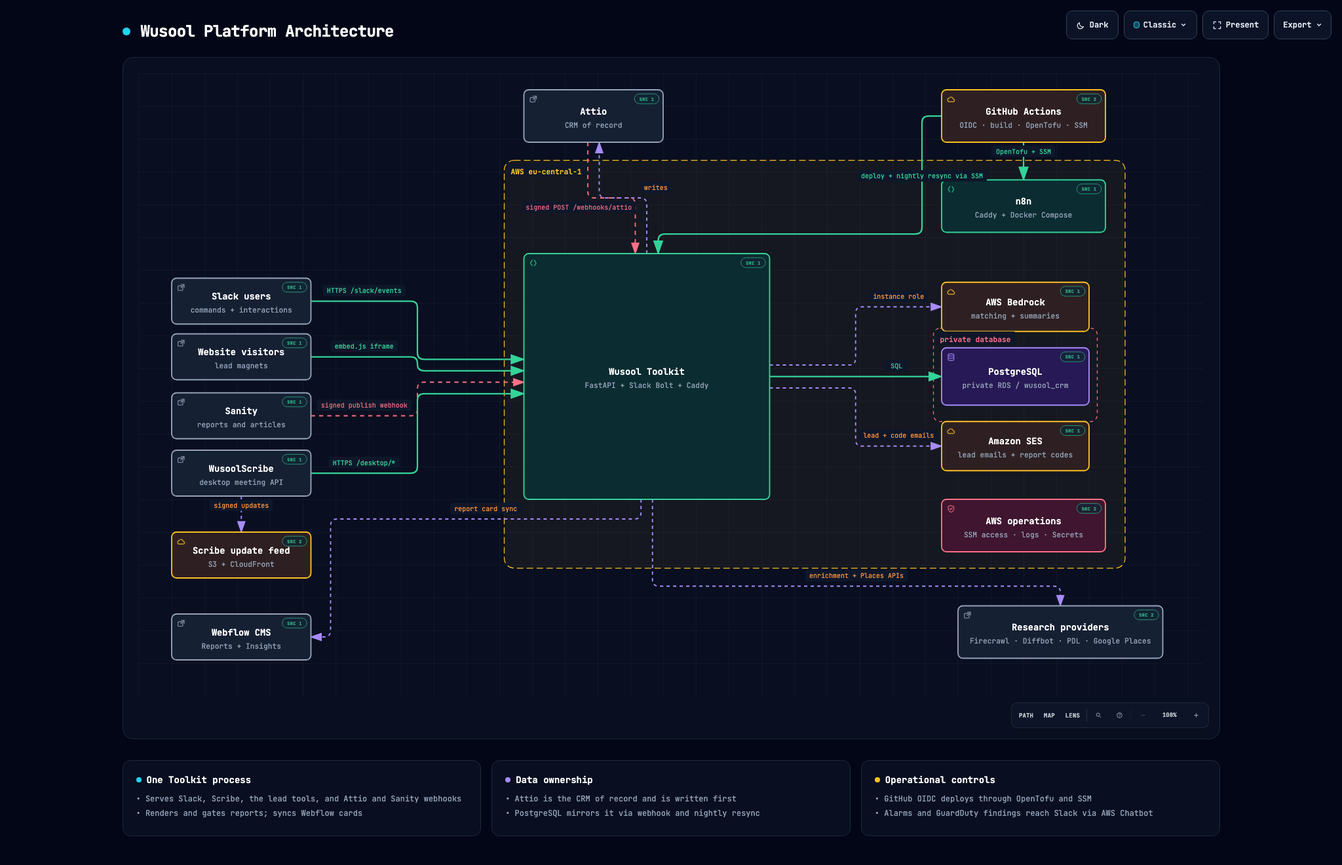
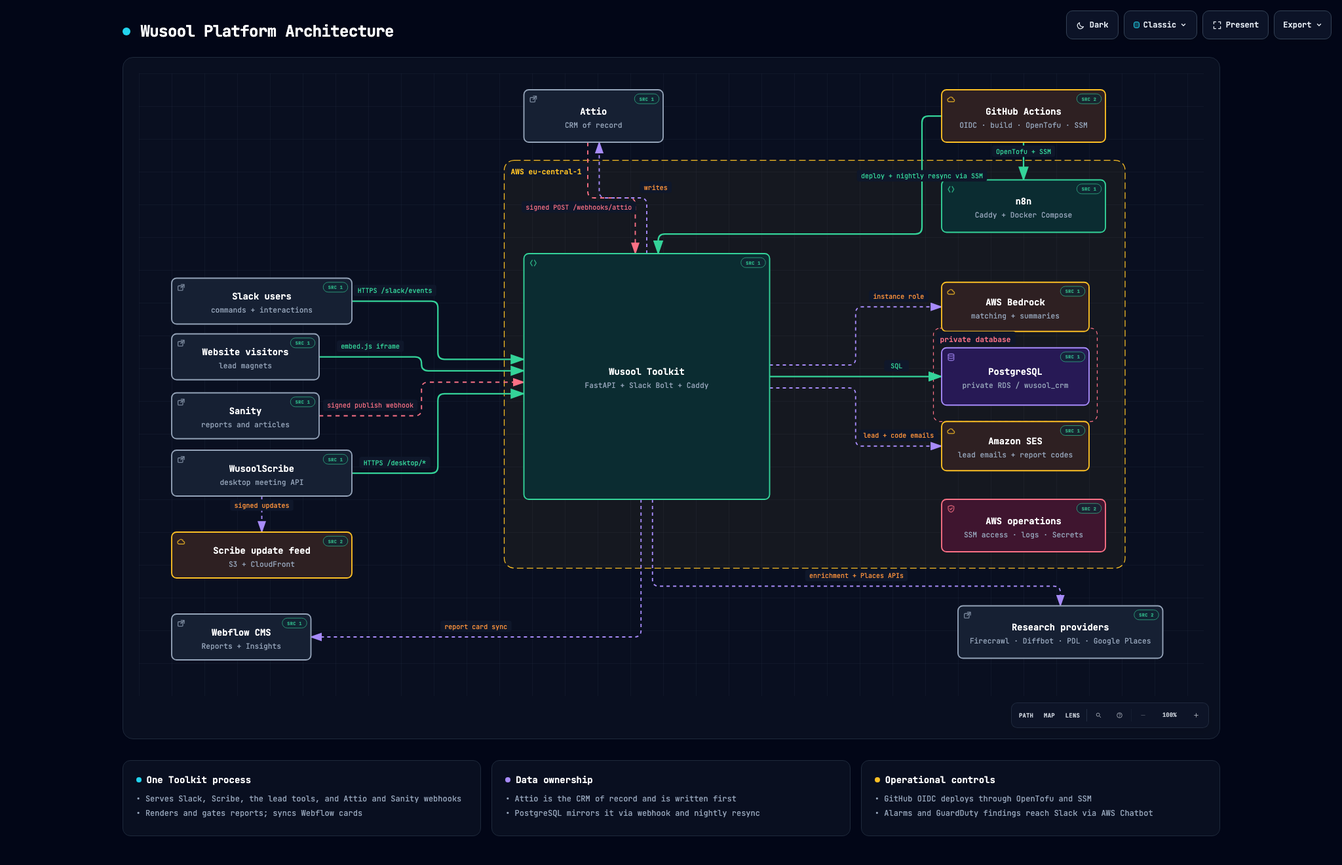
docs(api): stagger client edges into Toolkit in architecture

diff --git a/docs/internal/architecture/wusool-platform.html b/docs/internal/architecture/wusool-platform.html
@@ -5161,12 +5161,12 @@ OTHER DEALINGS IN THE FONT SOFTWARE.
         <rect data-graph-role="structural-frame" data-composition-frame-kind="security-group" data-composition-frame-id="1" data-composition-frame-label="private database" x="970" y="311" width="200" height="114" rx="8" class="c-security-group" stroke-width="1"/>
 
         <!-- Connection paths (before components for correct z-order) -->
-        <path data-edge-from="slack" data-edge-to="toolkit" data-edge-label="HTTPS /slack/events" data-edge-key="0" data-composition-points="210,278;340,278;340,349;470,349" d="M 210 278 L 332 278 Q 340 278 340 286 L 340 341 Q 340 349 348 349 L 470 349" class="a-emphasis" stroke-width="1.8" marker-end="url(#arrowhead-emphasis)"/>
-        <path data-edge-from="website" data-edge-to="toolkit" data-edge-label="embed.js iframe" data-edge-key="1" data-composition-points="210,346;340,346;340,363;470,363" d="M 210 346 L 332 346 Q 340 346 340 354 L 340 355 Q 340 363 348 363 L 470 363" class="a-emphasis" stroke-width="1.8" marker-end="url(#arrowhead-emphasis)"/>
-        <path data-edge-from="sanity" data-edge-to="toolkit" data-edge-label="signed publish webhook" data-edge-key="2" data-composition-points="210,418;340,418;340,377;470,377" d="M 210 418 L 332 418 Q 340 418 340 410 L 340 385 Q 340 377 348 377 L 470 377" class="a-security" stroke-width="1.5" marker-end="url(#arrowhead-security)"/>
-        <path data-edge-from="scribe" data-edge-to="toolkit" data-edge-label="HTTPS /desktop/*" data-edge-key="3" data-composition-points="210,488;340,488;340,391;470,391" d="M 210 488 L 332 488 Q 340 488 340 480 L 340 399 Q 340 391 348 391 L 470 391" class="a-emphasis" stroke-width="1.8" marker-end="url(#arrowhead-emphasis)"/>
-        <path data-edge-from="scribe" data-edge-to="scribe_updates" data-edge-label="signed updates" data-edge-key="4" data-composition-points="125,516;125,560" d="M 125 516 L 125 560" class="a-dashed" stroke-width="1.5" marker-end="url(#arrowhead-dashed)"/>
-        <path data-edge-from="toolkit" data-edge-to="webflow" data-edge-label="report card sync" data-edge-key="5" data-composition-points="613,520;613,544;234,544;234,688;210,688" d="M 613 520 L 613 536 Q 613 544 605 544 L 242 544 Q 234 544 234 552 L 234 680 Q 234 688 226 688 L 210 688" class="a-dashed" stroke-width="1.5" marker-end="url(#arrowhead-dashed)"/>
+        <path data-edge-from="slack" data-edge-to="toolkit" data-edge-label="HTTPS /slack/events" data-edge-key="0" data-composition-points="260,278;365,278;365,349;470,349" d="M 260 278 L 357 278 Q 365 278 365 286 L 365 341 Q 365 349 373 349 L 470 349" class="a-emphasis" stroke-width="1.8" marker-end="url(#arrowhead-emphasis)"/>
+        <path data-edge-from="website" data-edge-to="toolkit" data-edge-label="embed.js iframe" data-edge-key="1" data-composition-points="220,346;345,346;345,363;470,363" d="M 220 346 L 337 346 Q 345 346 345 354 L 345 355 Q 345 363 353 363 L 470 363" class="a-emphasis" stroke-width="1.8" marker-end="url(#arrowhead-emphasis)"/>
+        <path data-edge-from="sanity" data-edge-to="toolkit" data-edge-label="signed publish webhook" data-edge-key="2" data-composition-points="220,418;345,418;345,377;470,377" d="M 220 418 L 337 418 Q 345 418 345 410 L 345 385 Q 345 377 353 377 L 470 377" class="a-security" stroke-width="1.5" marker-end="url(#arrowhead-security)"/>
+        <path data-edge-from="scribe" data-edge-to="toolkit" data-edge-label="HTTPS /desktop/*" data-edge-key="3" data-composition-points="260,488;365,488;365,391;470,391" d="M 260 488 L 357 488 Q 365 488 365 480 L 365 399 Q 365 391 373 391 L 470 391" class="a-emphasis" stroke-width="1.8" marker-end="url(#arrowhead-emphasis)"/>
+        <path data-edge-from="scribe" data-edge-to="scribe_updates" data-edge-label="signed updates" data-edge-key="4" data-composition-points="150,516;150,560" d="M 150 516 L 150 560" class="a-dashed" stroke-width="1.5" marker-end="url(#arrowhead-dashed)"/>
+        <path data-edge-from="toolkit" data-edge-to="webflow" data-edge-label="report card sync" data-edge-key="5" data-composition-points="613,520;613,688;210,688" d="M 613 520 L 613 680 Q 613 688 605 688 L 210 688" class="a-dashed" stroke-width="1.5" marker-end="url(#arrowhead-dashed)"/>
         <path data-edge-from="attio" data-edge-to="toolkit" data-edge-label="signed POST /webhooks/attio" data-edge-key="6" data-composition-points="548,84;548,152;606,152;606,220" d="M 548 84 L 548 144 Q 548 152 556 152 L 598 152 Q 606 152 606 160 L 606 220" class="a-security" stroke-width="1.5" marker-end="url(#arrowhead-security)"/>
         <path data-edge-from="toolkit" data-edge-to="attio" data-edge-label="writes" data-edge-key="7" data-composition-points="620,220;620,152;562,152;562,84" d="M 620 220 L 620 160 Q 620 152 612 152 L 570 152 Q 562 152 562 144 L 562 84" class="a-dashed" stroke-width="1.5" marker-end="url(#arrowhead-dashed)"/>
         <path data-edge-from="github" data-edge-to="toolkit" data-edge-label="deploy + nightly resync via SSM" data-edge-key="8" data-composition-points="980,52;956,52;956,196;634,196;634,220" d="M 980 52 L 964 52 Q 956 52 956 60 L 956 188 Q 956 196 948 196 L 642 196 Q 634 196 634 204 L 634 220" class="a-emphasis" stroke-width="1.8" marker-end="url(#arrowhead-emphasis)"/>
@@ -5179,38 +5179,38 @@ OTHER DEALINGS IN THE FONT SOFTWARE.
         <!-- Components -->
         <g id="node-slack" data-node-id="slack" data-node-label="Slack users" tabindex="0" role="button" aria-label="Focus Slack users, commands + interactions, Architecture component" aria-pressed="false" data-node-kind="external" data-node-sublabel="commands + interactions" data-node-context="Architecture component">
           <title>Slack users · commands + interactions · Architecture component</title>
-          <rect x="40" y="250" width="170" height="56" rx="6" class="c-mask"/>
-          <rect x="40" y="250" width="170" height="56" rx="6" class="c-external" stroke-width="1.5"/>
+          <rect x="40" y="250" width="220" height="56" rx="6" class="c-mask"/>
+          <rect x="40" y="250" width="220" height="56" rx="6" class="c-external" stroke-width="1.5"/>
           <g aria-hidden="true" data-semantic-sigil="external" class="semantic-sigil s-external" transform="translate(46 256) scale(0.6875)">
             <rect x="2.5" y="5" width="8.5" height="8" rx="1.5"/>
             <path d="M8 2.5h5.5V8M13.5 2.5 7.5 8.5"/>
           </g>
-          <text data-node-label="" data-detail-anchor="" x="125" y="276" class="t-primary" font-size="11" font-weight="600" text-anchor="middle">Slack users</text>
-        <text data-detail="context" x="125" y="292" class="t-muted" font-size="9" text-anchor="middle">commands + interactions</text>
+          <text data-node-label="" data-detail-anchor="" x="150" y="276" class="t-primary" font-size="11" font-weight="600" text-anchor="middle">Slack users</text>
+        <text data-detail="context" x="150" y="292" class="t-muted" font-size="9" text-anchor="middle">commands + interactions</text>
         </g>
 
         <g id="node-website" data-node-id="website" data-node-label="Website visitors" tabindex="0" role="button" aria-label="Focus Website visitors, lead magnets, Architecture component" aria-pressed="false" data-node-kind="external" data-node-sublabel="lead magnets" data-node-context="Architecture component">
           <title>Website visitors · lead magnets · Architecture component</title>
-          <rect x="40" y="318" width="170" height="56" rx="6" class="c-mask"/>
-          <rect x="40" y="318" width="170" height="56" rx="6" class="c-external" stroke-width="1.5"/>
+          <rect x="40" y="318" width="180" height="56" rx="6" class="c-mask"/>
+          <rect x="40" y="318" width="180" height="56" rx="6" class="c-external" stroke-width="1.5"/>
           <g aria-hidden="true" data-semantic-sigil="external" class="semantic-sigil s-external" transform="translate(46 324) scale(0.6875)">
             <rect x="2.5" y="5" width="8.5" height="8" rx="1.5"/>
             <path d="M8 2.5h5.5V8M13.5 2.5 7.5 8.5"/>
           </g>
-          <text data-node-label="" data-detail-anchor="" x="125" y="344" class="t-primary" font-size="11" font-weight="600" text-anchor="middle">Website visitors</text>
-        <text data-detail="context" x="125" y="360" class="t-muted" font-size="9" text-anchor="middle">lead magnets</text>
+          <text data-node-label="" data-detail-anchor="" x="130" y="344" class="t-primary" font-size="11" font-weight="600" text-anchor="middle">Website visitors</text>
+        <text data-detail="context" x="130" y="360" class="t-muted" font-size="9" text-anchor="middle">lead magnets</text>
         </g>
 
         <g id="node-scribe" data-node-id="scribe" data-node-label="WusoolScribe" tabindex="0" role="button" aria-label="Focus WusoolScribe, desktop meeting API, Architecture component" aria-pressed="false" data-node-kind="external" data-node-sublabel="desktop meeting API" data-node-context="Architecture component">
           <title>WusoolScribe · desktop meeting API · Architecture component</title>
-          <rect x="40" y="460" width="170" height="56" rx="6" class="c-mask"/>
-          <rect x="40" y="460" width="170" height="56" rx="6" class="c-external" stroke-width="1.5"/>
+          <rect x="40" y="460" width="220" height="56" rx="6" class="c-mask"/>
+          <rect x="40" y="460" width="220" height="56" rx="6" class="c-external" stroke-width="1.5"/>
           <g aria-hidden="true" data-semantic-sigil="external" class="semantic-sigil s-external" transform="translate(46 466) scale(0.6875)">
             <rect x="2.5" y="5" width="8.5" height="8" rx="1.5"/>
             <path d="M8 2.5h5.5V8M13.5 2.5 7.5 8.5"/>
           </g>
-          <text data-node-label="" data-detail-anchor="" x="125" y="486" class="t-primary" font-size="11" font-weight="600" text-anchor="middle">WusoolScribe</text>
-        <text data-detail="context" x="125" y="502" class="t-muted" font-size="9" text-anchor="middle">desktop meeting API</text>
+          <text data-node-label="" data-detail-anchor="" x="150" y="486" class="t-primary" font-size="11" font-weight="600" text-anchor="middle">WusoolScribe</text>
+        <text data-detail="context" x="150" y="502" class="t-muted" font-size="9" text-anchor="middle">desktop meeting API</text>
         </g>
 
         <g id="node-attio" data-node-id="attio" data-node-label="Attio" tabindex="0" role="button" aria-label="Focus Attio, CRM of record, Architecture component" aria-pressed="false" data-node-kind="external" data-node-sublabel="CRM of record" data-node-context="Architecture component">
@@ -5310,14 +5310,14 @@ OTHER DEALINGS IN THE FONT SOFTWARE.
 
         <g id="node-sanity" data-node-id="sanity" data-node-label="Sanity" tabindex="0" role="button" aria-label="Focus Sanity, reports and articles, Architecture component" aria-pressed="false" data-node-kind="external" data-node-sublabel="reports and articles" data-node-context="Architecture component">
           <title>Sanity · reports and articles · Architecture component</title>
-          <rect x="40" y="390" width="170" height="56" rx="6" class="c-mask"/>
-          <rect x="40" y="390" width="170" height="56" rx="6" class="c-external" stroke-width="1.5"/>
+          <rect x="40" y="390" width="180" height="56" rx="6" class="c-mask"/>
+          <rect x="40" y="390" width="180" height="56" rx="6" class="c-external" stroke-width="1.5"/>
           <g aria-hidden="true" data-semantic-sigil="external" class="semantic-sigil s-external" transform="translate(46 396) scale(0.6875)">
             <rect x="2.5" y="5" width="8.5" height="8" rx="1.5"/>
             <path d="M8 2.5h5.5V8M13.5 2.5 7.5 8.5"/>
           </g>
-          <text data-node-label="" data-detail-anchor="" x="125" y="416" class="t-primary" font-size="11" font-weight="600" text-anchor="middle">Sanity</text>
-        <text data-detail="context" x="125" y="432" class="t-muted" font-size="9" text-anchor="middle">reports and articles</text>
+          <text data-node-label="" data-detail-anchor="" x="130" y="416" class="t-primary" font-size="11" font-weight="600" text-anchor="middle">Sanity</text>
+        <text data-detail="context" x="130" y="432" class="t-muted" font-size="9" text-anchor="middle">reports and articles</text>
         </g>
 
         <g id="node-webflow" data-node-id="webflow" data-node-label="Webflow CMS" tabindex="0" role="button" aria-label="Focus Webflow CMS, Reports + Insights, Architecture component" aria-pressed="false" data-node-kind="external" data-node-sublabel="Reports + Insights" data-node-context="Architecture component">
@@ -5345,39 +5345,39 @@ OTHER DEALINGS IN THE FONT SOFTWARE.
 
         <g id="node-scribe_updates" data-node-id="scribe_updates" data-node-label="Scribe update feed" tabindex="0" role="button" aria-label="Focus Scribe update feed, S3 + CloudFront, Architecture component" aria-pressed="false" data-node-kind="cloud" data-node-sublabel="S3 + CloudFront" data-node-context="Architecture component">
           <title>Scribe update feed · S3 + CloudFront · Architecture component</title>
-          <rect x="40" y="560" width="170" height="56" rx="6" class="c-mask"/>
-          <rect x="40" y="560" width="170" height="56" rx="6" class="c-cloud" stroke-width="1.5"/>
+          <rect x="40" y="560" width="220" height="56" rx="6" class="c-mask"/>
+          <rect x="40" y="560" width="220" height="56" rx="6" class="c-cloud" stroke-width="1.5"/>
           <g aria-hidden="true" data-semantic-sigil="cloud" class="semantic-sigil s-cloud" transform="translate(46 566) scale(0.6875)">
             <path d="M4.3 12.5h7.3a2.4 2.4 0 0 0 .2-4.8 4 4 0 0 0-7.5-1.3A3.1 3.1 0 0 0 4.3 12.5Z"/>
           </g>
-          <text data-node-label="" data-detail-anchor="" x="125" y="586" class="t-primary" font-size="11" font-weight="600" text-anchor="middle">Scribe update feed</text>
-        <text data-detail="context" x="125" y="602" class="t-muted" font-size="9" text-anchor="middle">S3 + CloudFront</text>
+          <text data-node-label="" data-detail-anchor="" x="150" y="586" class="t-primary" font-size="11" font-weight="600" text-anchor="middle">Scribe update feed</text>
+        <text data-detail="context" x="150" y="602" class="t-muted" font-size="9" text-anchor="middle">S3 + CloudFront</text>
         </g>
 
         <!-- Connection labels -->
         <g data-detail="context" data-edge-from="slack" data-edge-to="toolkit" data-edge-label="HTTPS /slack/events" data-edge-key="0">
-          <rect x="224.4" y="258" width="101.2" height="14" rx="3" class="c-mask"/>
-          <text x="275" y="268" class="t-backend" font-size="8" text-anchor="middle">HTTPS /slack/events</text>
+          <rect x="261.9" y="258" width="101.2" height="14" rx="3" class="c-mask"/>
+          <text x="312.5" y="268" class="t-backend" font-size="8" text-anchor="middle">HTTPS /slack/events</text>
         </g>
         <g data-detail="context" data-edge-from="website" data-edge-to="toolkit" data-edge-label="embed.js iframe" data-edge-key="1">
-          <rect x="234" y="326" width="82" height="14" rx="3" class="c-mask"/>
-          <text x="275" y="336" class="t-backend" font-size="8" text-anchor="middle">embed.js iframe</text>
+          <rect x="241.5" y="326" width="82" height="14" rx="3" class="c-mask"/>
+          <text x="282.5" y="336" class="t-backend" font-size="8" text-anchor="middle">embed.js iframe</text>
         </g>
         <g data-detail="context" data-edge-from="sanity" data-edge-to="toolkit" data-edge-label="signed publish webhook" data-edge-key="2">
-          <rect x="217.2" y="398" width="115.6" height="14" rx="3" class="c-mask"/>
-          <text x="275" y="408" class="t-security" font-size="8" text-anchor="middle">signed publish webhook</text>
+          <rect x="224.7" y="398" width="115.6" height="14" rx="3" class="c-mask"/>
+          <text x="282.5" y="408" class="t-security" font-size="8" text-anchor="middle">signed publish webhook</text>
         </g>
         <g data-detail="context" data-edge-from="scribe" data-edge-to="toolkit" data-edge-label="HTTPS /desktop/*" data-edge-key="3">
-          <rect x="231.6" y="468" width="86.8" height="14" rx="3" class="c-mask"/>
-          <text x="275" y="478" class="t-backend" font-size="8" text-anchor="middle">HTTPS /desktop/*</text>
+          <rect x="269.1" y="468" width="86.8" height="14" rx="3" class="c-mask"/>
+          <text x="312.5" y="478" class="t-backend" font-size="8" text-anchor="middle">HTTPS /desktop/*</text>
         </g>
         <g data-detail="context" data-edge-from="scribe" data-edge-to="scribe_updates" data-edge-label="signed updates" data-edge-key="4">
-          <rect x="86.4" y="520" width="77.2" height="14" rx="3" class="c-mask"/>
-          <text x="125" y="530" class="t-messagebus" font-size="8" text-anchor="middle">signed updates</text>
+          <rect x="111.4" y="520" width="77.2" height="14" rx="3" class="c-mask"/>
+          <text x="150" y="530" class="t-messagebus" font-size="8" text-anchor="middle">signed updates</text>
         </g>
         <g data-detail="context" data-edge-from="toolkit" data-edge-to="webflow" data-edge-label="report card sync" data-edge-key="5">
-          <rect x="380.1" y="524" width="86.8" height="14" rx="3" class="c-mask"/>
-          <text x="423.5" y="534" class="t-messagebus" font-size="8" text-anchor="middle">report card sync</text>
+          <rect x="368.1" y="668" width="86.8" height="14" rx="3" class="c-mask"/>
+          <text x="411.5" y="678" class="t-messagebus" font-size="8" text-anchor="middle">report card sync</text>
         </g>
         <g data-detail="context" data-edge-from="attio" data-edge-to="toolkit" data-edge-label="signed POST /webhooks/attio" data-edge-key="6">
           <rect x="467.2" y="156" width="139.6" height="14" rx="3" class="c-mask"/>

diff --git a/server/app/modules/lead_magnets/static/architecture/index.html b/server/app/modules/lead_magnets/static/architecture/index.html
@@ -5161,12 +5161,12 @@ OTHER DEALINGS IN THE FONT SOFTWARE.
         <rect data-graph-role="structural-frame" data-composition-frame-kind="security-group" data-composition-frame-id="1" data-composition-frame-label="private database" x="970" y="311" width="200" height="114" rx="8" class="c-security-group" stroke-width="1"/>
 
         <!-- Connection paths (before components for correct z-order) -->
-        <path data-edge-from="slack" data-edge-to="toolkit" data-edge-label="HTTPS /slack/events" data-edge-key="0" data-composition-points="210,278;340,278;340,349;470,349" d="M 210 278 L 332 278 Q 340 278 340 286 L 340 341 Q 340 349 348 349 L 470 349" class="a-emphasis" stroke-width="1.8" marker-end="url(#arrowhead-emphasis)"/>
-        <path data-edge-from="website" data-edge-to="toolkit" data-edge-label="embed.js iframe" data-edge-key="1" data-composition-points="210,346;340,346;340,363;470,363" d="M 210 346 L 332 346 Q 340 346 340 354 L 340 355 Q 340 363 348 363 L 470 363" class="a-emphasis" stroke-width="1.8" marker-end="url(#arrowhead-emphasis)"/>
-        <path data-edge-from="sanity" data-edge-to="toolkit" data-edge-label="signed publish webhook" data-edge-key="2" data-composition-points="210,418;340,418;340,377;470,377" d="M 210 418 L 332 418 Q 340 418 340 410 L 340 385 Q 340 377 348 377 L 470 377" class="a-security" stroke-width="1.5" marker-end="url(#arrowhead-security)"/>
-        <path data-edge-from="scribe" data-edge-to="toolkit" data-edge-label="HTTPS /desktop/*" data-edge-key="3" data-composition-points="210,488;340,488;340,391;470,391" d="M 210 488 L 332 488 Q 340 488 340 480 L 340 399 Q 340 391 348 391 L 470 391" class="a-emphasis" stroke-width="1.8" marker-end="url(#arrowhead-emphasis)"/>
-        <path data-edge-from="scribe" data-edge-to="scribe_updates" data-edge-label="signed updates" data-edge-key="4" data-composition-points="125,516;125,560" d="M 125 516 L 125 560" class="a-dashed" stroke-width="1.5" marker-end="url(#arrowhead-dashed)"/>
-        <path data-edge-from="toolkit" data-edge-to="webflow" data-edge-label="report card sync" data-edge-key="5" data-composition-points="613,520;613,544;234,544;234,688;210,688" d="M 613 520 L 613 536 Q 613 544 605 544 L 242 544 Q 234 544 234 552 L 234 680 Q 234 688 226 688 L 210 688" class="a-dashed" stroke-width="1.5" marker-end="url(#arrowhead-dashed)"/>
+        <path data-edge-from="slack" data-edge-to="toolkit" data-edge-label="HTTPS /slack/events" data-edge-key="0" data-composition-points="260,278;365,278;365,349;470,349" d="M 260 278 L 357 278 Q 365 278 365 286 L 365 341 Q 365 349 373 349 L 470 349" class="a-emphasis" stroke-width="1.8" marker-end="url(#arrowhead-emphasis)"/>
+        <path data-edge-from="website" data-edge-to="toolkit" data-edge-label="embed.js iframe" data-edge-key="1" data-composition-points="220,346;345,346;345,363;470,363" d="M 220 346 L 337 346 Q 345 346 345 354 L 345 355 Q 345 363 353 363 L 470 363" class="a-emphasis" stroke-width="1.8" marker-end="url(#arrowhead-emphasis)"/>
+        <path data-edge-from="sanity" data-edge-to="toolkit" data-edge-label="signed publish webhook" data-edge-key="2" data-composition-points="220,418;345,418;345,377;470,377" d="M 220 418 L 337 418 Q 345 418 345 410 L 345 385 Q 345 377 353 377 L 470 377" class="a-security" stroke-width="1.5" marker-end="url(#arrowhead-security)"/>
+        <path data-edge-from="scribe" data-edge-to="toolkit" data-edge-label="HTTPS /desktop/*" data-edge-key="3" data-composition-points="260,488;365,488;365,391;470,391" d="M 260 488 L 357 488 Q 365 488 365 480 L 365 399 Q 365 391 373 391 L 470 391" class="a-emphasis" stroke-width="1.8" marker-end="url(#arrowhead-emphasis)"/>
+        <path data-edge-from="scribe" data-edge-to="scribe_updates" data-edge-label="signed updates" data-edge-key="4" data-composition-points="150,516;150,560" d="M 150 516 L 150 560" class="a-dashed" stroke-width="1.5" marker-end="url(#arrowhead-dashed)"/>
+        <path data-edge-from="toolkit" data-edge-to="webflow" data-edge-label="report card sync" data-edge-key="5" data-composition-points="613,520;613,688;210,688" d="M 613 520 L 613 680 Q 613 688 605 688 L 210 688" class="a-dashed" stroke-width="1.5" marker-end="url(#arrowhead-dashed)"/>
         <path data-edge-from="attio" data-edge-to="toolkit" data-edge-label="signed POST /webhooks/attio" data-edge-key="6" data-composition-points="548,84;548,152;606,152;606,220" d="M 548 84 L 548 144 Q 548 152 556 152 L 598 152 Q 606 152 606 160 L 606 220" class="a-security" stroke-width="1.5" marker-end="url(#arrowhead-security)"/>
         <path data-edge-from="toolkit" data-edge-to="attio" data-edge-label="writes" data-edge-key="7" data-composition-points="620,220;620,152;562,152;562,84" d="M 620 220 L 620 160 Q 620 152 612 152 L 570 152 Q 562 152 562 144 L 562 84" class="a-dashed" stroke-width="1.5" marker-end="url(#arrowhead-dashed)"/>
         <path data-edge-from="github" data-edge-to="toolkit" data-edge-label="deploy + nightly resync via SSM" data-edge-key="8" data-composition-points="980,52;956,52;956,196;634,196;634,220" d="M 980 52 L 964 52 Q 956 52 956 60 L 956 188 Q 956 196 948 196 L 642 196 Q 634 196 634 204 L 634 220" class="a-emphasis" stroke-width="1.8" marker-end="url(#arrowhead-emphasis)"/>
@@ -5179,38 +5179,38 @@ OTHER DEALINGS IN THE FONT SOFTWARE.
         <!-- Components -->
         <g id="node-slack" data-node-id="slack" data-node-label="Slack users" tabindex="0" role="button" aria-label="Focus Slack users, commands + interactions, Architecture component" aria-pressed="false" data-node-kind="external" data-node-sublabel="commands + interactions" data-node-context="Architecture component">
           <title>Slack users · commands + interactions · Architecture component</title>
-          <rect x="40" y="250" width="170" height="56" rx="6" class="c-mask"/>
-          <rect x="40" y="250" width="170" height="56" rx="6" class="c-external" stroke-width="1.5"/>
+          <rect x="40" y="250" width="220" height="56" rx="6" class="c-mask"/>
+          <rect x="40" y="250" width="220" height="56" rx="6" class="c-external" stroke-width="1.5"/>
           <g aria-hidden="true" data-semantic-sigil="external" class="semantic-sigil s-external" transform="translate(46 256) scale(0.6875)">
             <rect x="2.5" y="5" width="8.5" height="8" rx="1.5"/>
             <path d="M8 2.5h5.5V8M13.5 2.5 7.5 8.5"/>
           </g>
-          <text data-node-label="" data-detail-anchor="" x="125" y="276" class="t-primary" font-size="11" font-weight="600" text-anchor="middle">Slack users</text>
-        <text data-detail="context" x="125" y="292" class="t-muted" font-size="9" text-anchor="middle">commands + interactions</text>
+          <text data-node-label="" data-detail-anchor="" x="150" y="276" class="t-primary" font-size="11" font-weight="600" text-anchor="middle">Slack users</text>
+        <text data-detail="context" x="150" y="292" class="t-muted" font-size="9" text-anchor="middle">commands + interactions</text>
         </g>
 
         <g id="node-website" data-node-id="website" data-node-label="Website visitors" tabindex="0" role="button" aria-label="Focus Website visitors, lead magnets, Architecture component" aria-pressed="false" data-node-kind="external" data-node-sublabel="lead magnets" data-node-context="Architecture component">
           <title>Website visitors · lead magnets · Architecture component</title>
-          <rect x="40" y="318" width="170" height="56" rx="6" class="c-mask"/>
-          <rect x="40" y="318" width="170" height="56" rx="6" class="c-external" stroke-width="1.5"/>
+          <rect x="40" y="318" width="180" height="56" rx="6" class="c-mask"/>
+          <rect x="40" y="318" width="180" height="56" rx="6" class="c-external" stroke-width="1.5"/>
           <g aria-hidden="true" data-semantic-sigil="external" class="semantic-sigil s-external" transform="translate(46 324) scale(0.6875)">
             <rect x="2.5" y="5" width="8.5" height="8" rx="1.5"/>
             <path d="M8 2.5h5.5V8M13.5 2.5 7.5 8.5"/>
           </g>
-          <text data-node-label="" data-detail-anchor="" x="125" y="344" class="t-primary" font-size="11" font-weight="600" text-anchor="middle">Website visitors</text>
-        <text data-detail="context" x="125" y="360" class="t-muted" font-size="9" text-anchor="middle">lead magnets</text>
+          <text data-node-label="" data-detail-anchor="" x="130" y="344" class="t-primary" font-size="11" font-weight="600" text-anchor="middle">Website visitors</text>
+        <text data-detail="context" x="130" y="360" class="t-muted" font-size="9" text-anchor="middle">lead magnets</text>
         </g>
 
         <g id="node-scribe" data-node-id="scribe" data-node-label="WusoolScribe" tabindex="0" role="button" aria-label="Focus WusoolScribe, desktop meeting API, Architecture component" aria-pressed="false" data-node-kind="external" data-node-sublabel="desktop meeting API" data-node-context="Architecture component">
           <title>WusoolScribe · desktop meeting API · Architecture component</title>
-          <rect x="40" y="460" width="170" height="56" rx="6" class="c-mask"/>
-          <rect x="40" y="460" width="170" height="56" rx="6" class="c-external" stroke-width="1.5"/>
+          <rect x="40" y="460" width="220" height="56" rx="6" class="c-mask"/>
+          <rect x="40" y="460" width="220" height="56" rx="6" class="c-external" stroke-width="1.5"/>
           <g aria-hidden="true" data-semantic-sigil="external" class="semantic-sigil s-external" transform="translate(46 466) scale(0.6875)">
             <rect x="2.5" y="5" width="8.5" height="8" rx="1.5"/>
             <path d="M8 2.5h5.5V8M13.5 2.5 7.5 8.5"/>
           </g>
-          <text data-node-label="" data-detail-anchor="" x="125" y="486" class="t-primary" font-size="11" font-weight="600" text-anchor="middle">WusoolScribe</text>
-        <text data-detail="context" x="125" y="502" class="t-muted" font-size="9" text-anchor="middle">desktop meeting API</text>
+          <text data-node-label="" data-detail-anchor="" x="150" y="486" class="t-primary" font-size="11" font-weight="600" text-anchor="middle">WusoolScribe</text>
+        <text data-detail="context" x="150" y="502" class="t-muted" font-size="9" text-anchor="middle">desktop meeting API</text>
         </g>
 
         <g id="node-attio" data-node-id="attio" data-node-label="Attio" tabindex="0" role="button" aria-label="Focus Attio, CRM of record, Architecture component" aria-pressed="false" data-node-kind="external" data-node-sublabel="CRM of record" data-node-context="Architecture component">
@@ -5310,14 +5310,14 @@ OTHER DEALINGS IN THE FONT SOFTWARE.
 
         <g id="node-sanity" data-node-id="sanity" data-node-label="Sanity" tabindex="0" role="button" aria-label="Focus Sanity, reports and articles, Architecture component" aria-pressed="false" data-node-kind="external" data-node-sublabel="reports and articles" data-node-context="Architecture component">
           <title>Sanity · reports and articles · Architecture component</title>
-          <rect x="40" y="390" width="170" height="56" rx="6" class="c-mask"/>
-          <rect x="40" y="390" width="170" height="56" rx="6" class="c-external" stroke-width="1.5"/>
+          <rect x="40" y="390" width="180" height="56" rx="6" class="c-mask"/>
+          <rect x="40" y="390" width="180" height="56" rx="6" class="c-external" stroke-width="1.5"/>
           <g aria-hidden="true" data-semantic-sigil="external" class="semantic-sigil s-external" transform="translate(46 396) scale(0.6875)">
             <rect x="2.5" y="5" width="8.5" height="8" rx="1.5"/>
             <path d="M8 2.5h5.5V8M13.5 2.5 7.5 8.5"/>
           </g>
-          <text data-node-label="" data-detail-anchor="" x="125" y="416" class="t-primary" font-size="11" font-weight="600" text-anchor="middle">Sanity</text>
-        <text data-detail="context" x="125" y="432" class="t-muted" font-size="9" text-anchor="middle">reports and articles</text>
+          <text data-node-label="" data-detail-anchor="" x="130" y="416" class="t-primary" font-size="11" font-weight="600" text-anchor="middle">Sanity</text>
+        <text data-detail="context" x="130" y="432" class="t-muted" font-size="9" text-anchor="middle">reports and articles</text>
         </g>
 
         <g id="node-webflow" data-node-id="webflow" data-node-label="Webflow CMS" tabindex="0" role="button" aria-label="Focus Webflow CMS, Reports + Insights, Architecture component" aria-pressed="false" data-node-kind="external" data-node-sublabel="Reports + Insights" data-node-context="Architecture component">
@@ -5345,39 +5345,39 @@ OTHER DEALINGS IN THE FONT SOFTWARE.
 
         <g id="node-scribe_updates" data-node-id="scribe_updates" data-node-label="Scribe update feed" tabindex="0" role="button" aria-label="Focus Scribe update feed, S3 + CloudFront, Architecture component" aria-pressed="false" data-node-kind="cloud" data-node-sublabel="S3 + CloudFront" data-node-context="Architecture component">
           <title>Scribe update feed · S3 + CloudFront · Architecture component</title>
-          <rect x="40" y="560" width="170" height="56" rx="6" class="c-mask"/>
-          <rect x="40" y="560" width="170" height="56" rx="6" class="c-cloud" stroke-width="1.5"/>
+          <rect x="40" y="560" width="220" height="56" rx="6" class="c-mask"/>
+          <rect x="40" y="560" width="220" height="56" rx="6" class="c-cloud" stroke-width="1.5"/>
           <g aria-hidden="true" data-semantic-sigil="cloud" class="semantic-sigil s-cloud" transform="translate(46 566) scale(0.6875)">
             <path d="M4.3 12.5h7.3a2.4 2.4 0 0 0 .2-4.8 4 4 0 0 0-7.5-1.3A3.1 3.1 0 0 0 4.3 12.5Z"/>
           </g>
-          <text data-node-label="" data-detail-anchor="" x="125" y="586" class="t-primary" font-size="11" font-weight="600" text-anchor="middle">Scribe update feed</text>
-        <text data-detail="context" x="125" y="602" class="t-muted" font-size="9" text-anchor="middle">S3 + CloudFront</text>
+          <text data-node-label="" data-detail-anchor="" x="150" y="586" class="t-primary" font-size="11" font-weight="600" text-anchor="middle">Scribe update feed</text>
+        <text data-detail="context" x="150" y="602" class="t-muted" font-size="9" text-anchor="middle">S3 + CloudFront</text>
         </g>
 
         <!-- Connection labels -->
         <g data-detail="context" data-edge-from="slack" data-edge-to="toolkit" data-edge-label="HTTPS /slack/events" data-edge-key="0">
-          <rect x="224.4" y="258" width="101.2" height="14" rx="3" class="c-mask"/>
-          <text x="275" y="268" class="t-backend" font-size="8" text-anchor="middle">HTTPS /slack/events</text>
+          <rect x="261.9" y="258" width="101.2" height="14" rx="3" class="c-mask"/>
+          <text x="312.5" y="268" class="t-backend" font-size="8" text-anchor="middle">HTTPS /slack/events</text>
         </g>
         <g data-detail="context" data-edge-from="website" data-edge-to="toolkit" data-edge-label="embed.js iframe" data-edge-key="1">
-          <rect x="234" y="326" width="82" height="14" rx="3" class="c-mask"/>
-          <text x="275" y="336" class="t-backend" font-size="8" text-anchor="middle">embed.js iframe</text>
+          <rect x="241.5" y="326" width="82" height="14" rx="3" class="c-mask"/>
+          <text x="282.5" y="336" class="t-backend" font-size="8" text-anchor="middle">embed.js iframe</text>
         </g>
         <g data-detail="context" data-edge-from="sanity" data-edge-to="toolkit" data-edge-label="signed publish webhook" data-edge-key="2">
-          <rect x="217.2" y="398" width="115.6" height="14" rx="3" class="c-mask"/>
-          <text x="275" y="408" class="t-security" font-size="8" text-anchor="middle">signed publish webhook</text>
+          <rect x="224.7" y="398" width="115.6" height="14" rx="3" class="c-mask"/>
+          <text x="282.5" y="408" class="t-security" font-size="8" text-anchor="middle">signed publish webhook</text>
         </g>
         <g data-detail="context" data-edge-from="scribe" data-edge-to="toolkit" data-edge-label="HTTPS /desktop/*" data-edge-key="3">
-          <rect x="231.6" y="468" width="86.8" height="14" rx="3" class="c-mask"/>
-          <text x="275" y="478" class="t-backend" font-size="8" text-anchor="middle">HTTPS /desktop/*</text>
+          <rect x="269.1" y="468" width="86.8" height="14" rx="3" class="c-mask"/>
+          <text x="312.5" y="478" class="t-backend" font-size="8" text-anchor="middle">HTTPS /desktop/*</text>
         </g>
         <g data-detail="context" data-edge-from="scribe" data-edge-to="scribe_updates" data-edge-label="signed updates" data-edge-key="4">
-          <rect x="86.4" y="520" width="77.2" height="14" rx="3" class="c-mask"/>
-          <text x="125" y="530" class="t-messagebus" font-size="8" text-anchor="middle">signed updates</text>
+          <rect x="111.4" y="520" width="77.2" height="14" rx="3" class="c-mask"/>
+          <text x="150" y="530" class="t-messagebus" font-size="8" text-anchor="middle">signed updates</text>
         </g>
         <g data-detail="context" data-edge-from="toolkit" data-edge-to="webflow" data-edge-label="report card sync" data-edge-key="5">
-          <rect x="380.1" y="524" width="86.8" height="14" rx="3" class="c-mask"/>
-          <text x="423.5" y="534" class="t-messagebus" font-size="8" text-anchor="middle">report card sync</text>
+          <rect x="368.1" y="668" width="86.8" height="14" rx="3" class="c-mask"/>
+          <text x="411.5" y="678" class="t-messagebus" font-size="8" text-anchor="middle">report card sync</text>
         </g>
         <g data-detail="context" data-edge-from="attio" data-edge-to="toolkit" data-edge-label="signed POST /webhooks/attio" data-edge-key="6">
           <rect x="467.2" y="156" width="139.6" height="14" rx="3" class="c-mask"/>
